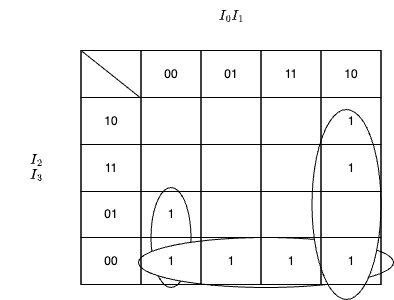
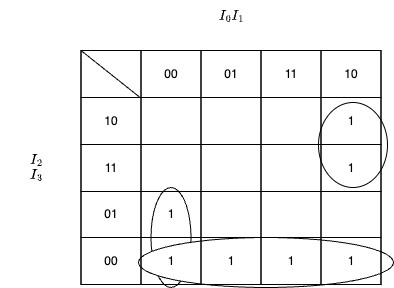
new

diff --git a/NOTE/CO/Assinment/AS2/Assignment2.md b/NOTE/CO/Assinment/AS2/Assignment2.md
@@ -35,7 +35,7 @@ Fibonacci numbers are the sequence of numbers Fn defined by the linear recurrenc
 |1|0|1|1|0|
 |1|1|0|0|0|
 |1|1|0|1|1|
-|1|1|1|0|0|
+|1|1|1|0|0¡¡|
 |1|1|1|1|0|
 
 2. Sum of Product
@@ -57,19 +57,19 @@ $(\overline{I_3} \ \overline{I_2} \ \overline{I_1} \ \overline{I_0}) +(\overline
 +({I_3} \ \overline{I_2} \ \overline{I_1} \ \overline{I_0})
 +({I_3} \ {I_2} \ \overline{I_1} \ {I_0})$
 
-$=(\overline{I_3} \ \overline{I_2} \ \overline{I_1})+(\overline{I_3} \ \overline{I_2} \ {I_1}) +({I_2} \ \overline{I_1} \ {I_0})+(\overline{I_2} \ \overline{I_1} \ \overline{I_0})+(\overline{I_3}\ \overline{I_1}\ {I_0})$
+$=(\overline{I_3} \ \overline{I_2} \ \overline{I_1})+(\overline{I_3} \ \overline{I_2} \ {I_1}) +({I_2} \ \overline{I_1} \ {I_0})+(\overline{I_2} \ \overline{I_1} \ \overline{I_0})$
 
-$=(\overline{I_3} \ \overline{I_2})+(\ \overline{I_2} \ \overline{I_1} \ \overline{I_0})+({I_2}\ \overline{I_1}\ {I_0})+(\overline{I_3}\ \overline{I_1}\ {I_0})$
+$=(\overline{I_3} \ \overline{I_2})+(\ \overline{I_2} \ \overline{I_1} \ \overline{I_0})+({I_2}\ \overline{I_1}\ {I_0})$
 
 4. Simplify the logical expression using K-MAP.
 
-<img src='https://cdn.jsdelivr.net/gh/ALLENYGY/ImageSpace@main/uPic/K-MAP.png' alt='K-MAP'/>
+<img src="https://cdn.jsdelivr.net/gh/ALLENYGY/ImageSpace@master/IMAGE/CO/K-MAP.png"/>
 
-$=(\overline{I_3} \ \overline{I_2})+(\ \overline{I_2} \ \overline{I_1} \ \overline{I_0})+({I_2}\ \overline{I_1}\ {I_0})+(\overline{I_3}\ \overline{I_1}\ {I_0})$
+$=(\overline{I_3} \ \overline{I_2})+(\ \overline{I_2} \ \overline{I_1} \ \overline{I_0})+({I_2}\ \overline{I_1}\ {I_0})$
 
 5. Draw the logical circuit and verify it.
 
-<img src='https://cdn.jsdelivr.net/gh/ALLENYGY/ImageSpace@main/uPic/CO-As2.png' alt='CO-As2'/>
+<img src="https://cdn.jsdelivr.net/gh/ALLENYGY/ImageSpace@master/IMAGE/CO/Fibonacci.png"/>
 
 ## $III$
 
